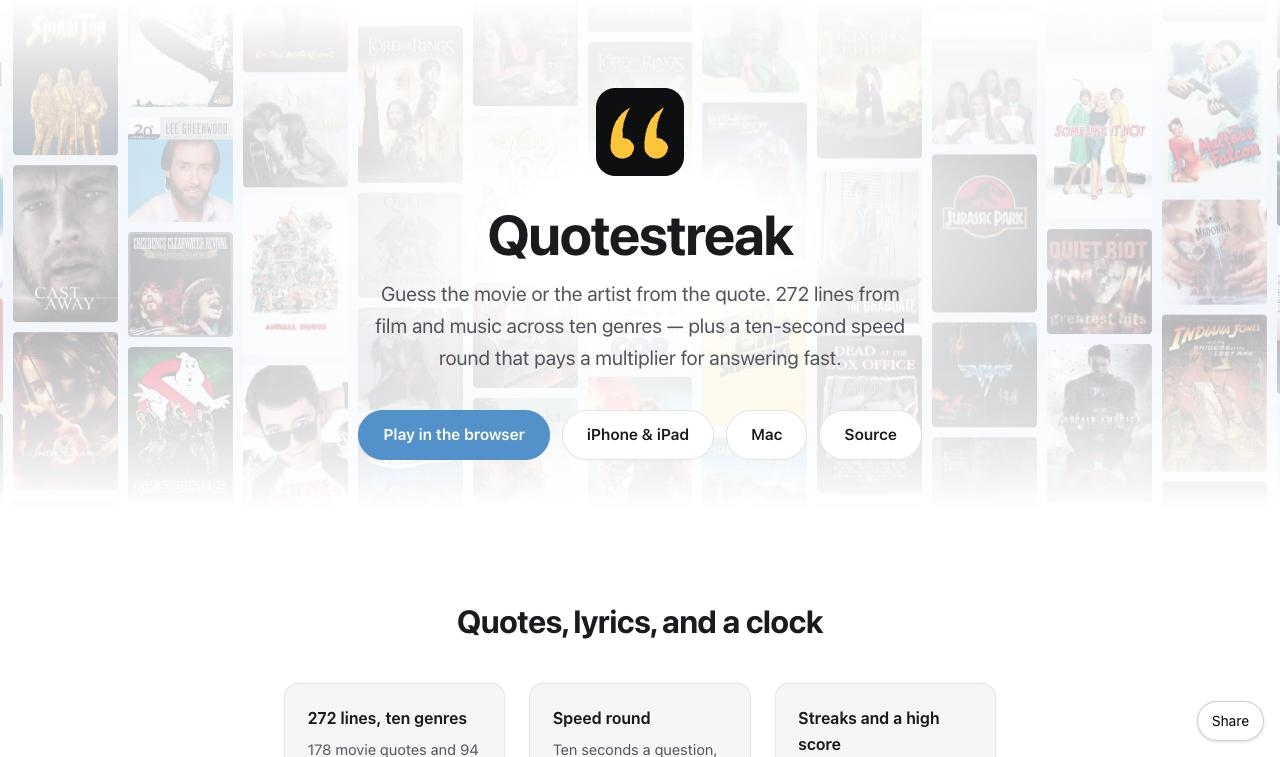
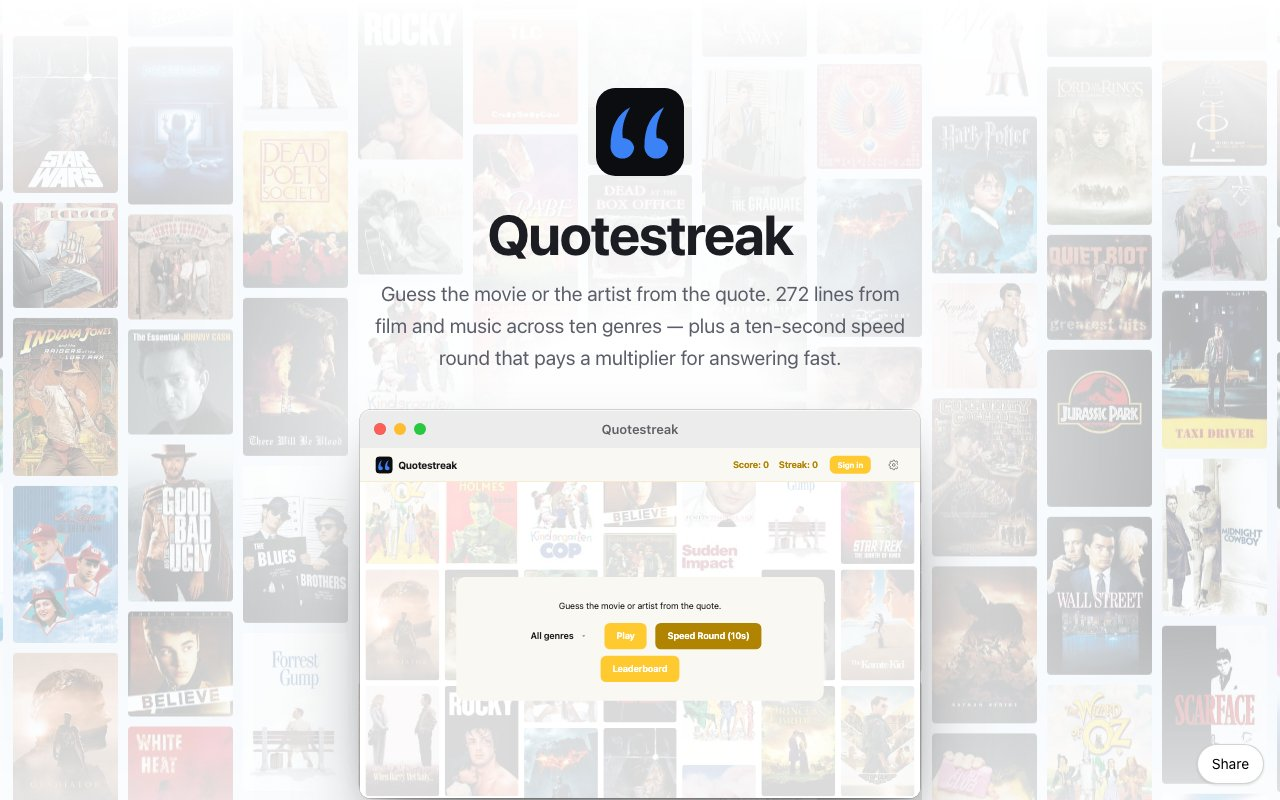
Remove redundant app-name title above live demo
The demo already shows the app; a repeated app-name h1 above it was
noise. Tagline is now the page's single h1.

Claude-Session: https://claude.ai/code/session_01C3A1rkVHDrLjGqe98x9NcP

diff --git a/index.html b/index.html
@@ -197,8 +197,7 @@ a.skip:focus { position:fixed; left:1rem; top:1rem; z-index:99; padding:0.5rem 0
   <div class="hero-wall" id="heroWall" aria-hidden="true"></div>
   <div class="container">
     <img class="hero-icon" src="icon.svg" alt="Quotestreak icon" width="88" height="88">
-    <h1>Quotestreak</h1>
-    <p>Guess the movie or the artist from the quote. 272 lines from film and music across ten genres &mdash; plus a ten-second speed round that pays a multiplier for answering fast.</p>
+    <h1>Guess the movie or the artist from the quote. 272 lines from film and music across ten genres &mdash; plus a ten-second speed round that pays a multiplier for answering fast.</h1>
 <div class="demo">
   <div class="device device-iphone" id="demoFrame" data-title="Quotestreak"><div class="device-screen"><iframe id="demoApp" title="Quotestreak, live" loading="lazy" data-src="/play.html"></iframe></div></div>
   <p class="demo-caption">This is the <span id="demoDev">iPhone</span> app, live. Try it.</p>
